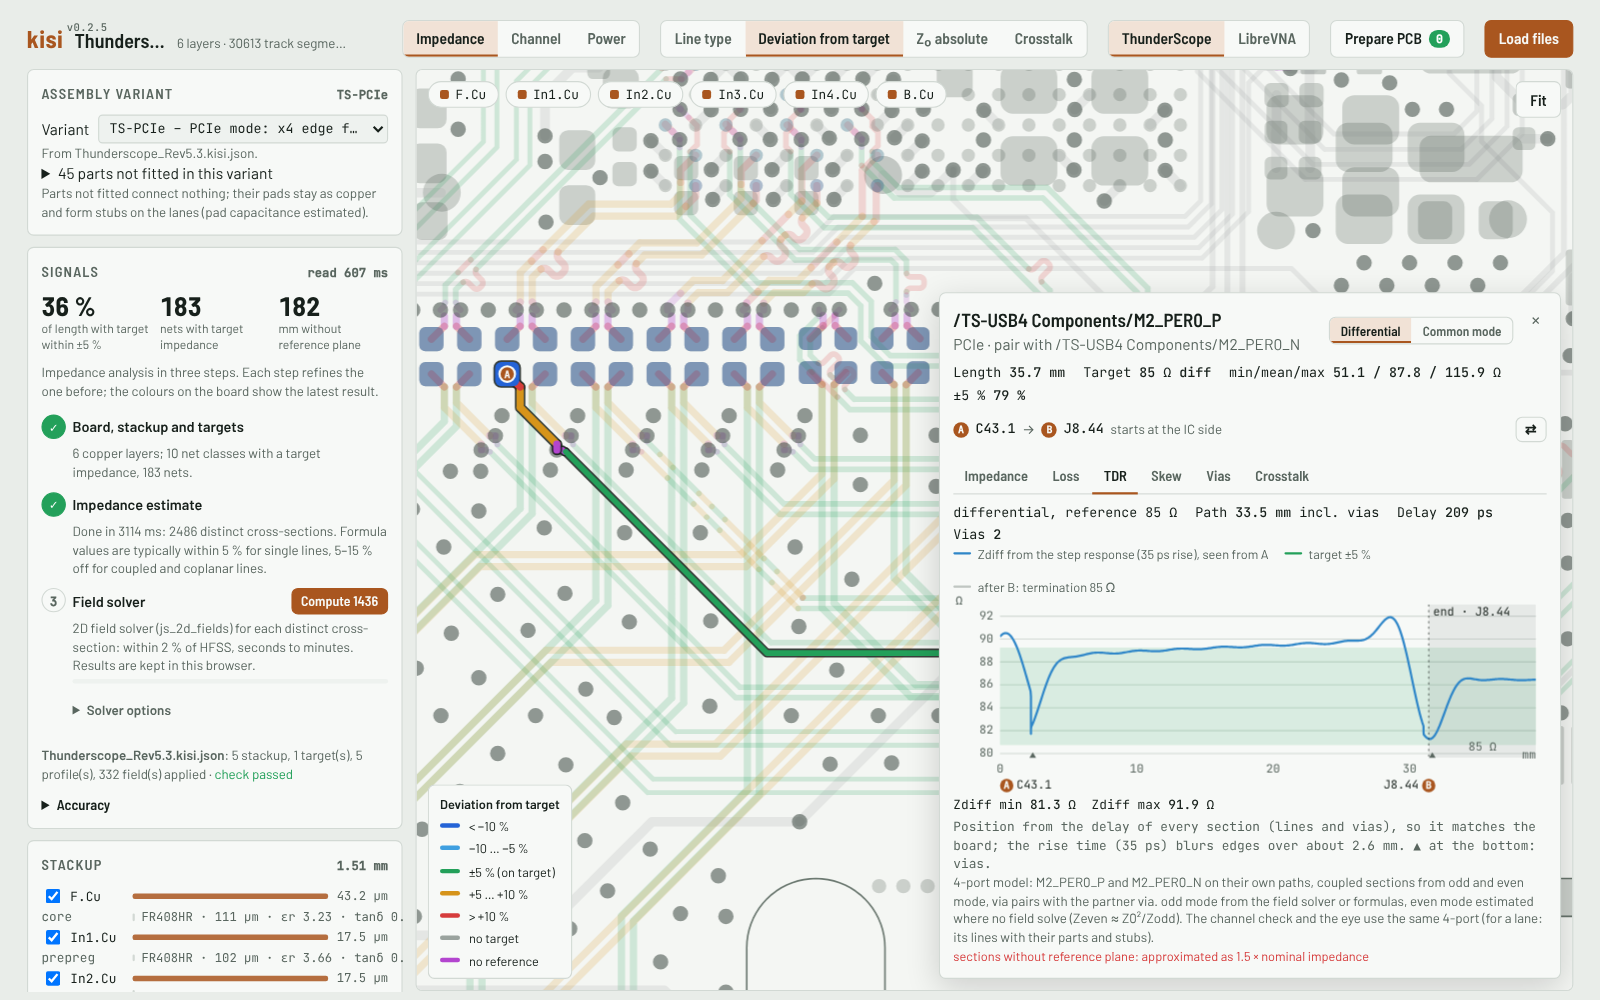
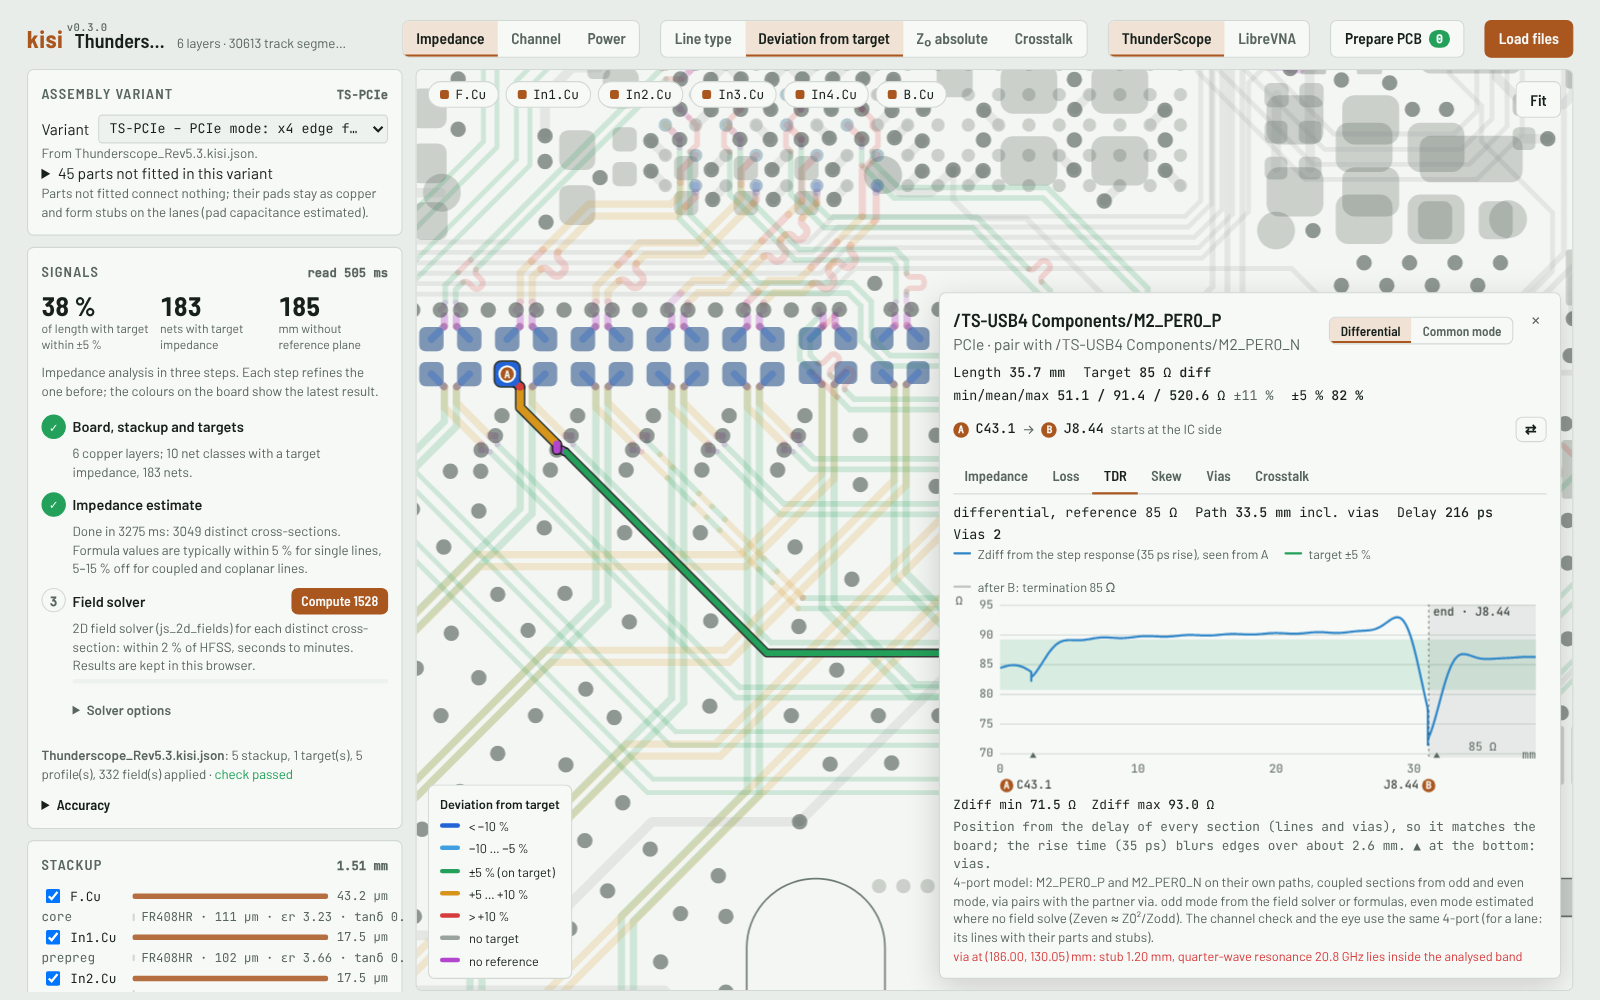
Version 0.3.0
- Version 0.3.0 (Cargo workspace, Cargo.lock, plugin manifest, ROADMAP).
- README and landing page: accuracy level and typical deviation of every
  impedance and via result; the landing page's Channel card names the export.
- Worked XIAO example: the numbers re-checked with 0.3.0 (same gap list,
  100 mW from USB, largest drop 0.17 mV).
- getting-started: kisi-references.html is attached to 0.3.0 (the reference
  cases changed since v0.2.5).
- Screenshots regenerated (tools/screenshots.py).

diff --git a/web/pages/index.html b/web/pages/index.html
@@ -101,9 +101,9 @@ footer p { margin: 0; max-width: 90ch }
       <h2>What it checks</h2>
       <div class="cols">
         <div class="card"><h3>Impedance</h3>
-          <ul><li>Targets from net class names (<code>50Z</code>, <code>90Z_Diff</code>)</li><li>Formulas in a second, the 2D field solver on demand</li><li>Impedance along the path, loss, TDR, vias, crosstalk</li></ul></div>
+          <ul><li>Targets from net class names (<code>50Z</code>, <code>90Z_Diff</code>)</li><li>Formulas in a second, the 2D field solver on demand</li><li>Impedance along the path, loss, TDR, vias, crosstalk</li><li>Each result with its accuracy level and typical deviation (± %)</li></ul></div>
         <div class="card"><h3>Channel</h3>
-          <ul><li>Buses and lanes through series parts and AC caps, per assembly variant</li><li>Profiles: PCIe, USB, DDR, LVDS, Ethernet, HDMI, MIPI …</li><li>Loss, return loss, skew and a linear eye, also at connectors with the channel behind them</li><li>Differential pairs as 4-ports, multi-drop lines at every receiver</li></ul></div>
+          <ul><li>Buses and lanes through series parts and AC caps, per assembly variant</li><li>Profiles: PCIe, USB, DDR, LVDS, Ethernet, HDMI, MIPI …</li><li>Loss, return loss, skew and a linear eye, also at connectors with the channel behind them</li><li>Differential pairs as 4-ports, multi-drop lines at every receiver</li><li>Export of a lane or a whole bus: SPICE subcircuits with test benches, Touchstone, a KiCad project</li></ul></div>
         <div class="card"><h3>Power</h3>
           <ul><li>Regulator chain, budget and power flow with losses</li><li>DC voltage drop and current density per rail and layer, also in the ground return</li><li>PDN impedance seen from every IC: capacitors ranked by loop inductance, anti-resonances, target and recommendations</li><li>Temperature estimate: board map per layer, junction and case temperature of every part, heat through the vias</li></ul></div>
       </div>

diff --git a/docs/getting-started.md b/docs/getting-started.md
@@ -20,7 +20,7 @@ Every [release](https://github.com/riehlies/kisi/releases/latest) carries:
 | `kisi-examples.html` | the same viewer with two example boards built in – ThunderScope Rev5.3 and LibreVNA – each with its power tree as a kisi.json |
 | `kisi.mjs` | the command line for scripts, CI and agents (Node.js ≥ 18), with the 2D field solver |
 | `kisi-docs.pdf` | this documentation as one PDF |
-| `kisi-references.html` | 3D reference cases for vias, stubs, pairs, lines and plane cavities with field plots, and kisi's fast models against them (attached to the releases in which the cases changed, currently [v0.2.4](https://github.com/riehlies/kisi/releases/tag/v0.2.4)) |
+| `kisi-references.html` | 3D reference cases for vias, stubs, pairs, lines and plane cavities with field plots, and kisi's fast models against them (attached to the releases in which the cases changed, currently [v0.3.0](https://github.com/riehlies/kisi/releases/tag/v0.3.0)) |
 
 The [live version](https://riehlies.github.io/kisi/) serves the viewer and the example viewer from GitHub Pages.
 

diff --git a/README.md b/README.md
@@ -18,7 +18,8 @@ PDN impedance, temperature estimate) – in the browser, with no installation an
 
 ## What you get
 - **Impedance:** every track against its target (from net class names such as `50Z`, `90Z_Diff`), with formulas
-  in a second and the 2D field solver on demand; impedance along the path, loss, TDR, vias and crosstalk per net.
+  in a second and the 2D field solver on demand; impedance along the path, loss, TDR, vias and crosstalk per net;
+  every impedance and via result with its accuracy level (field solver, formula, estimate) and typical deviation.
 - **Channel:** buses and device-to-device lanes through series resistors and AC-coupling capacitors, checked
   against interface profiles (PCIe, USB, DDR, LVDS, Ethernet, …) on loss, return loss, skew and a linear eye;
   differential pairs as 4-ports, multi-drop lines at every receiver, connectors with the channel behind them; a

diff --git a/docs/preparing-a-board.md b/docs/preparing-a-board.md
@@ -172,7 +172,7 @@ Unpack the project and run the gap list without a configuration:
 ```sh
 node kisi.mjs gaps "XIAO nRF54LM20A.kicad_pcb"
 ```
-With kisi 0.2.5 it reports no high-priority gap, five medium and two low ones:
+With kisi 0.3.0 it reports no high-priority gap, five medium and two low ones:
 
 | Gap | Items |
 |---|---|
@@ -232,7 +232,7 @@ node kisi.mjs gaps         "XIAO nRF54LM20A.kicad_pcb"   # what is still open
 In the viewer: drop the `.kicad_pcb`, the `.kicad_pro` and the `.kisi.json` together into `kisi.html`, then open
 the Power view.
 
-With kisi 0.2.5, `kisi power` gives 100 mW from USB: 83 mW to the loads and 17 mW of losses. BUCK2 loses 14 mW at
+With kisi 0.3.0, `kisi power` gives 100 mW from USB: 83 mW to the loads and 17 mW of losses. BUCK2 loses 14 mW at
 the estimated 85 % and LDO1 3 mW. The largest DC drop is 0.17 mV, on VSYS_3V3.
 
 ### What is still open

diff --git a/ROADMAP.md b/ROADMAP.md
@@ -1,6 +1,6 @@
 # kisi – roadmap
 
-Planned and possible work after 0.2.5, in three development blocks plus work across them. Within a block the items
+Planned and possible work after 0.3.0, in three development blocks plus work across them. Within a block the items
 are roughly in order of priority; each says why it matters, "Decide first" marks items that need a decision before
 work starts. One rule holds for all of them: `main` always has a clean, mostly self-explanatory build – new features
 come with a small, clear UI and without option combinatorics.
